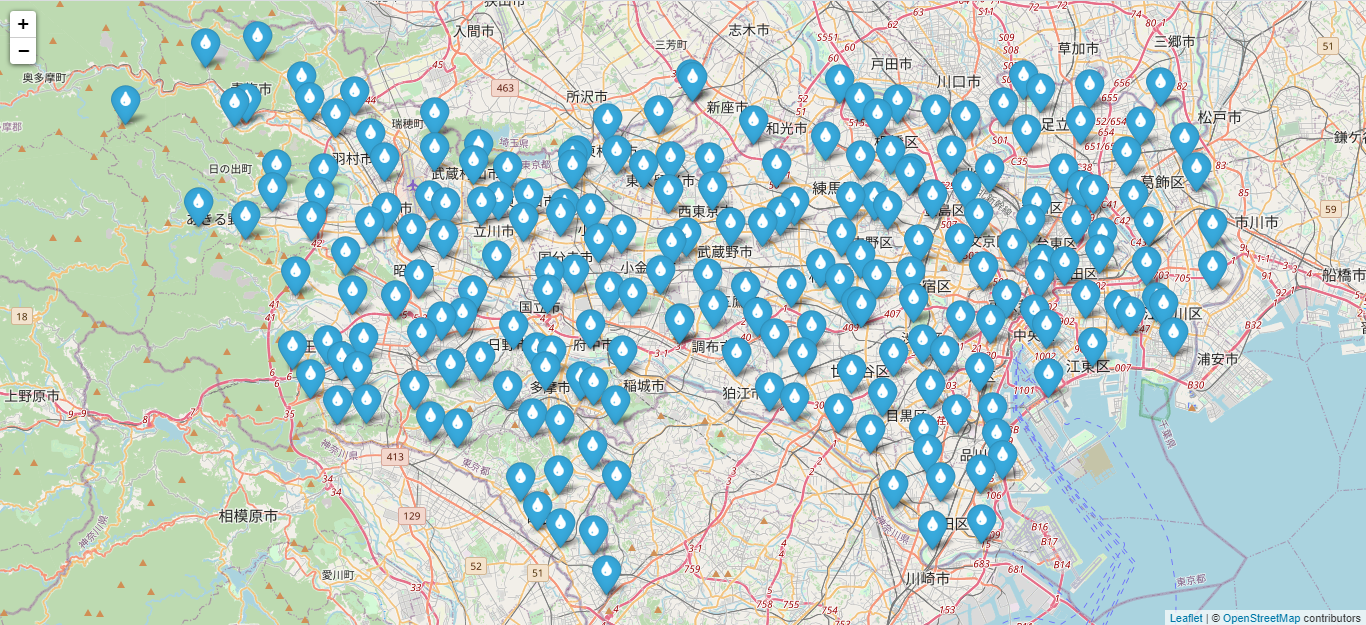
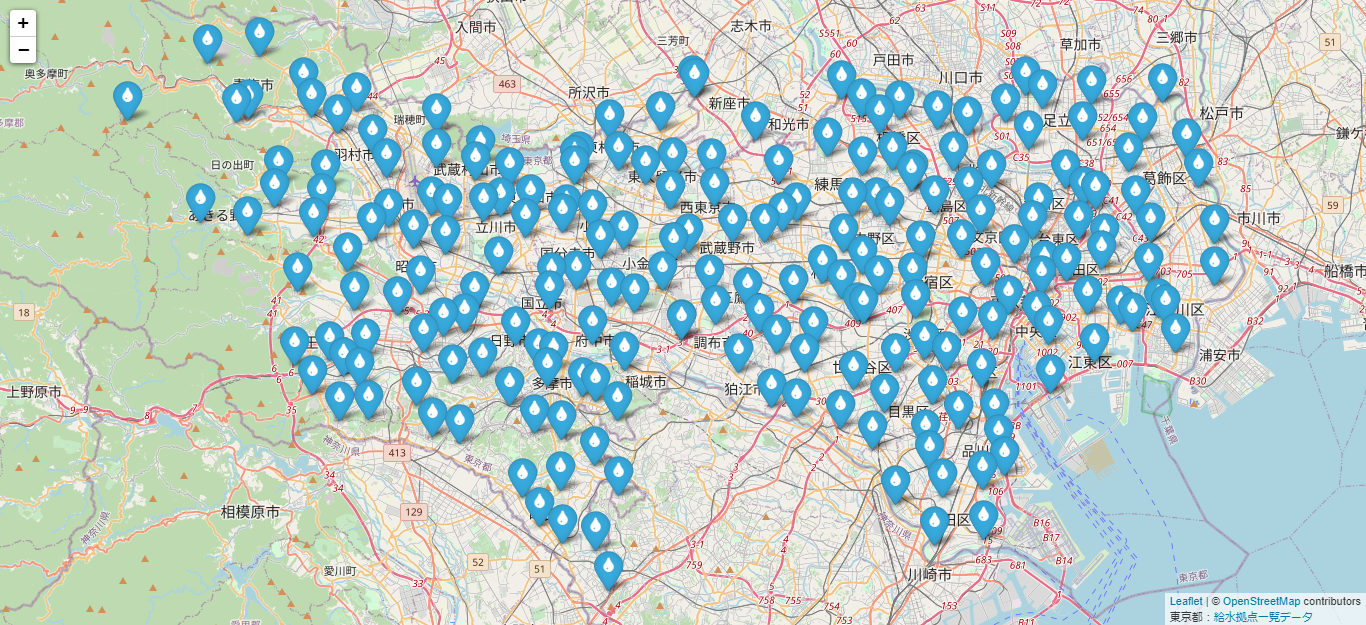
up

diff --git a/simulation/watersupply.js b/simulation/watersupply.js
@@ -3,7 +3,7 @@ var map;var p;var zoom;var hash;var todou = new Array(47);
 	function start(x, y, z){
 		map = L.map('map');
 		L.tileLayer('https://{s}.tile.openstreetmap.org/{z}/{x}/{y}.png', {
-		attribution: '&copy; <a href="http://osm.org/copyright" target="_blank">OpenStreetMap</a> contributors'
+		attribution: '&copy; <a href="http://osm.org/copyright" target="_blank">OpenStreetMap</a> contributors<br>東京都：<a href="https://catalog.data.metro.tokyo.lg.jp/dataset/t000019d0000000001">給水拠点一覧データ</a>'
 	}).addTo(map);
 		map.setView([x, y], z);
 		
